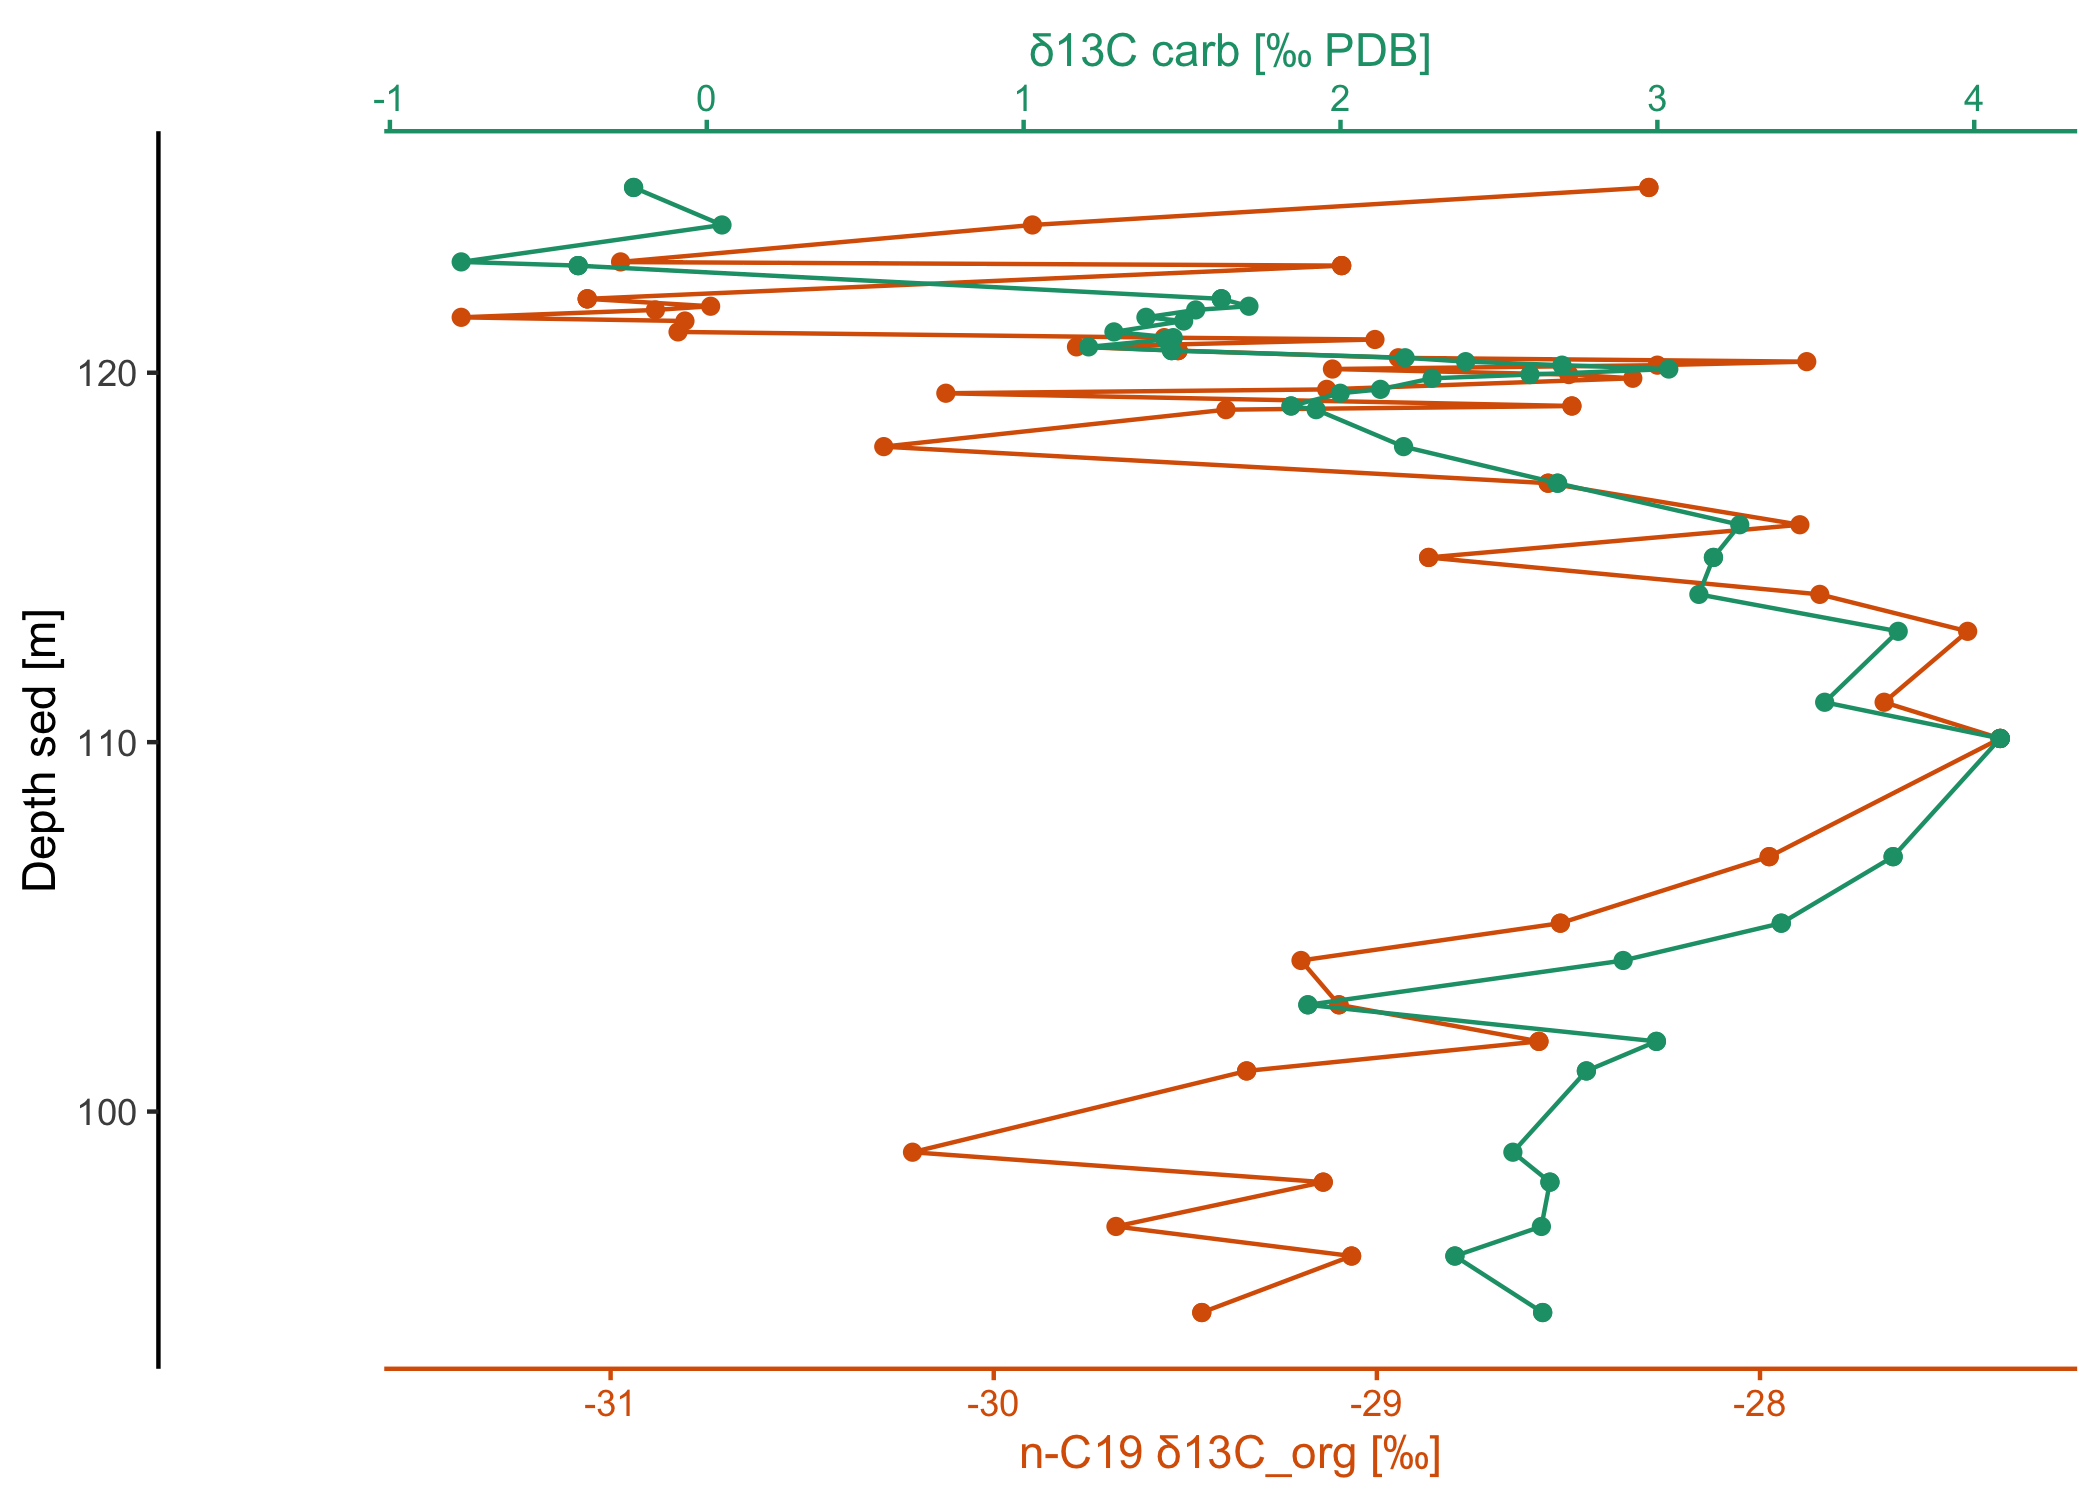
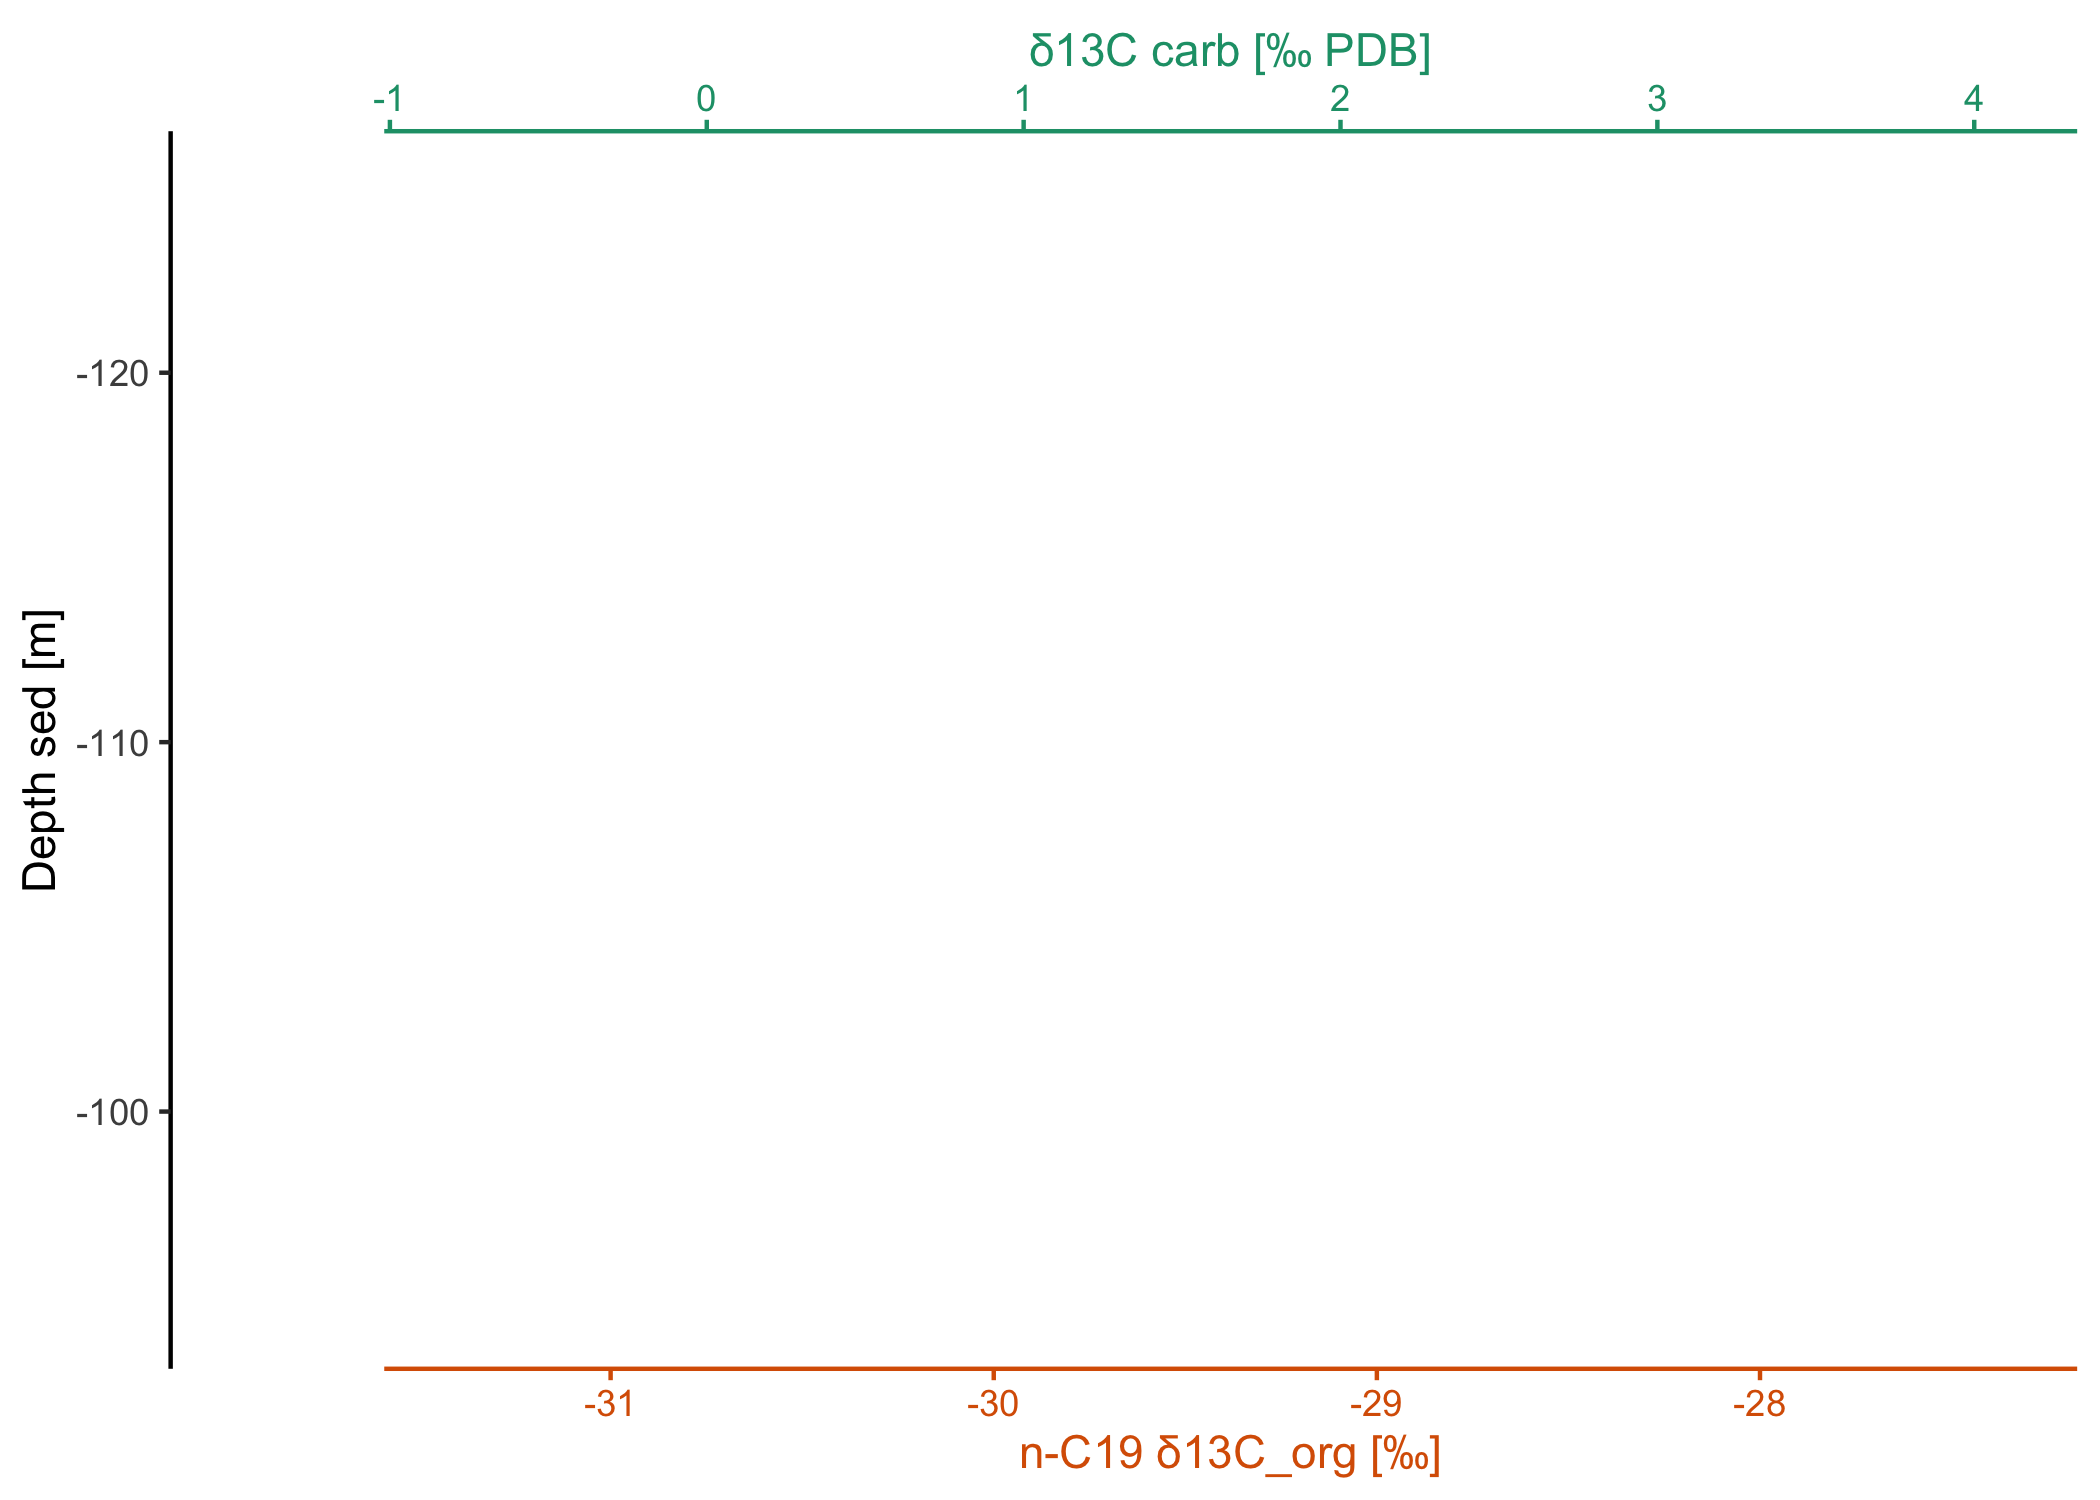
update documentation to include transformed axes

diff --git a/README.md b/README.md
@@ -149,7 +149,9 @@ my_template <-
   # use a path plot for all (to connect the data points by depth!)
   geom_point() + geom_path() +
   # we still want the default stackplot theme
-  theme_stackplot()
+  theme_stackplot() +
+  # depth is commonly plotted in reverse
+  scale_y_reverse()
 
 # now make the horizontal stack through depth for 2 of the variables
 dataset2$data |> 
@@ -165,6 +167,21 @@ dataset2$data |>
     overlap = 1,
     template = my_template
   )
+#> Warning: There were 4 warnings in `dplyr::mutate()`.
+#> The first warning was:
+#> ℹ In argument: `gtable = map(.data$plot_w_theme, ggplot2::ggplotGrob)`.
+#> Caused by warning:
+#> ! Removed 63 rows containing missing values or values outside the scale range
+#> (`geom_point()`).
+#> ℹ Run `dplyr::last_dplyr_warnings()` to see the 3 remaining warnings.
+#> Warning: Removed 63 rows containing missing values or values outside the scale range
+#> (`geom_point()`).
+#> Warning: Removed 63 rows containing missing values or values outside the scale range
+#> (`geom_path()`).
+#> Warning: Removed 63 rows containing missing values or values outside the scale range
+#> (`geom_point()`).
+#> Warning: Removed 63 rows containing missing values or values outside the scale range
+#> (`geom_path()`).
 ```
 
 <img src="man/figures/README-geodata-horizontal-1.png" width="100%" />
@@ -188,6 +205,21 @@ dataset2$data |>
     both_axes = TRUE,
     template = my_template
   )
+#> Warning: There were 4 warnings in `dplyr::mutate()`.
+#> The first warning was:
+#> ℹ In argument: `gtable = map(.data$plot_w_theme, ggplot2::ggplotGrob)`.
+#> Caused by warning:
+#> ! Removed 63 rows containing missing values or values outside the scale range
+#> (`geom_point()`).
+#> ℹ Run `dplyr::last_dplyr_warnings()` to see the 3 remaining warnings.
+#> Warning: Removed 63 rows containing missing values or values outside the scale range
+#> (`geom_point()`).
+#> Warning: Removed 63 rows containing missing values or values outside the scale range
+#> (`geom_path()`).
+#> Warning: Removed 63 rows containing missing values or values outside the scale range
+#> (`geom_point()`).
+#> Warning: Removed 63 rows containing missing values or values outside the scale range
+#> (`geom_path()`).
 ```
 
 <img src="man/figures/README-geodata-horizontal-2-1.png" width="100%" />
